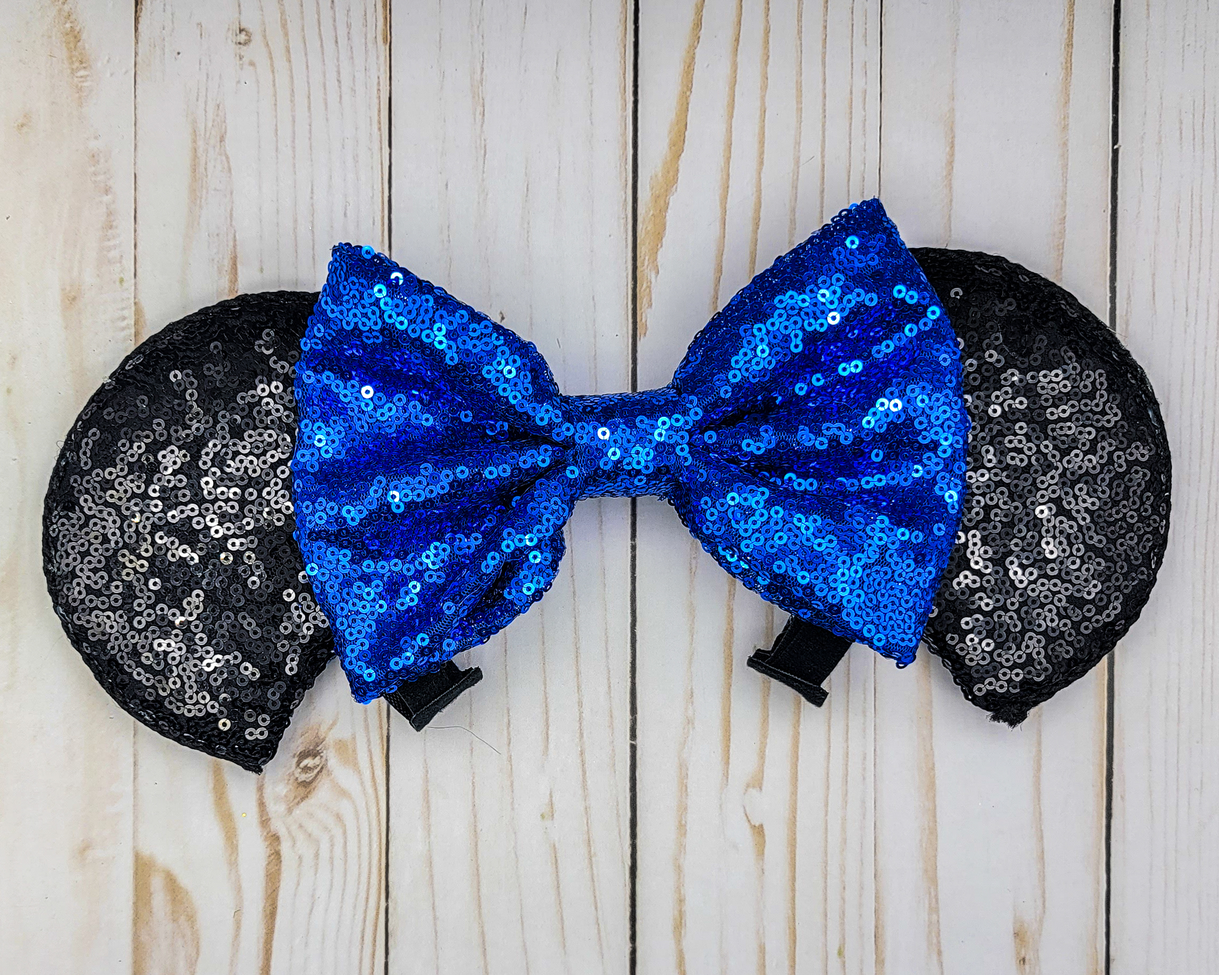
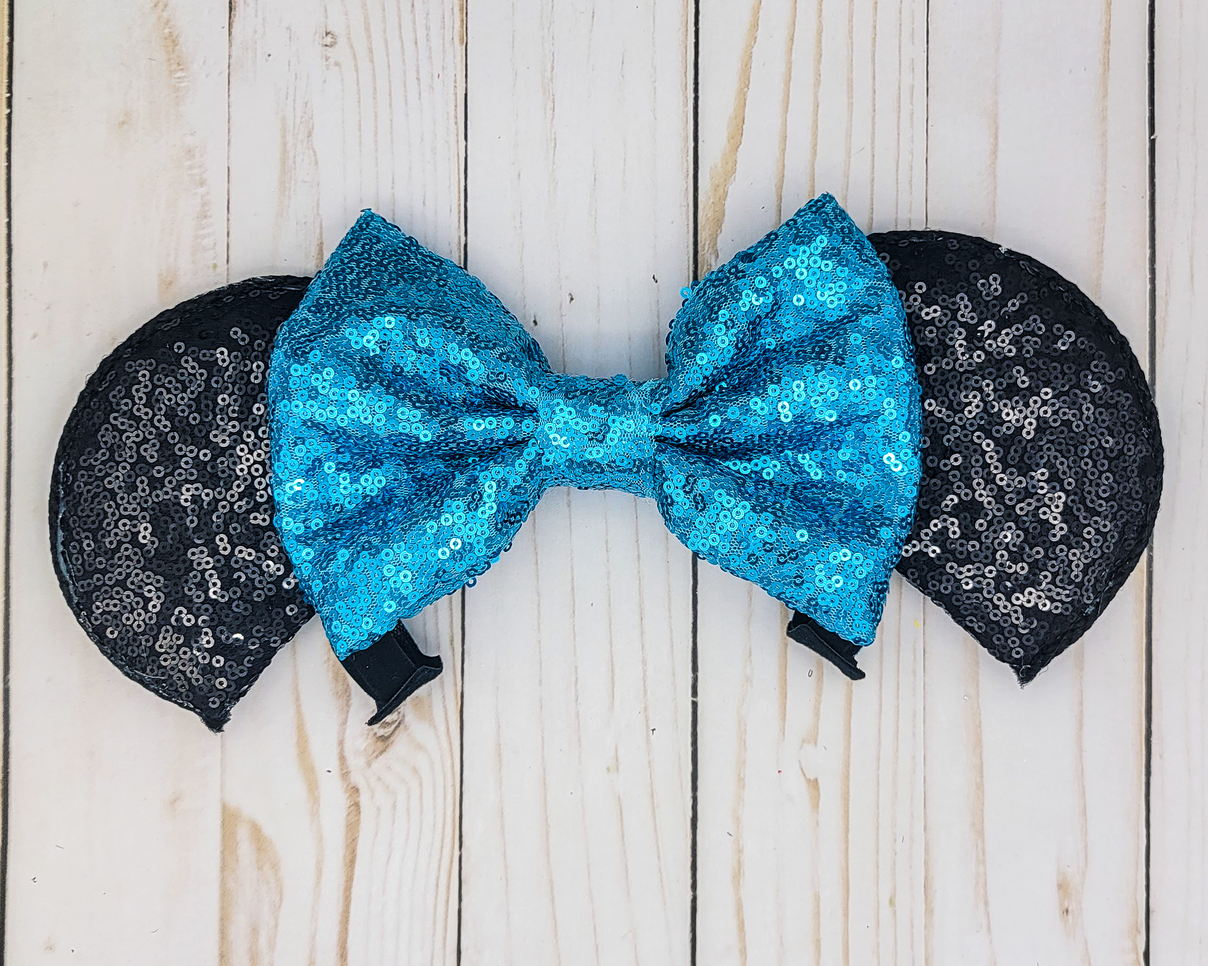
Blue bow QE

diff --git a/mainSite/content/products/blue-bow-qe.md b/mainSite/content/products/blue-bow-qe.md
@@ -1,6 +1,6 @@
 ---
 title: "Quiet Ears (Blue Bow)"
-date: 2023-02-05T09:09:16-07:00
+date: 2023-02-16T09:09:06-07:00
 draft: false
 
 # meta description
@@ -24,8 +24,7 @@ type: "products"
 images:
   - image: "images/products/Blue_1.jpg"
   - image: "images/products/Blue_2.jpg"
-  - image: "images/products/Blue_3.jpg"
-  - image: "images/products/Blue_4.jpg"
+  - image: "images/products/Blue_4.png"
 ---
 
 You will receive one set of Quiet Ears (headphones not included).
